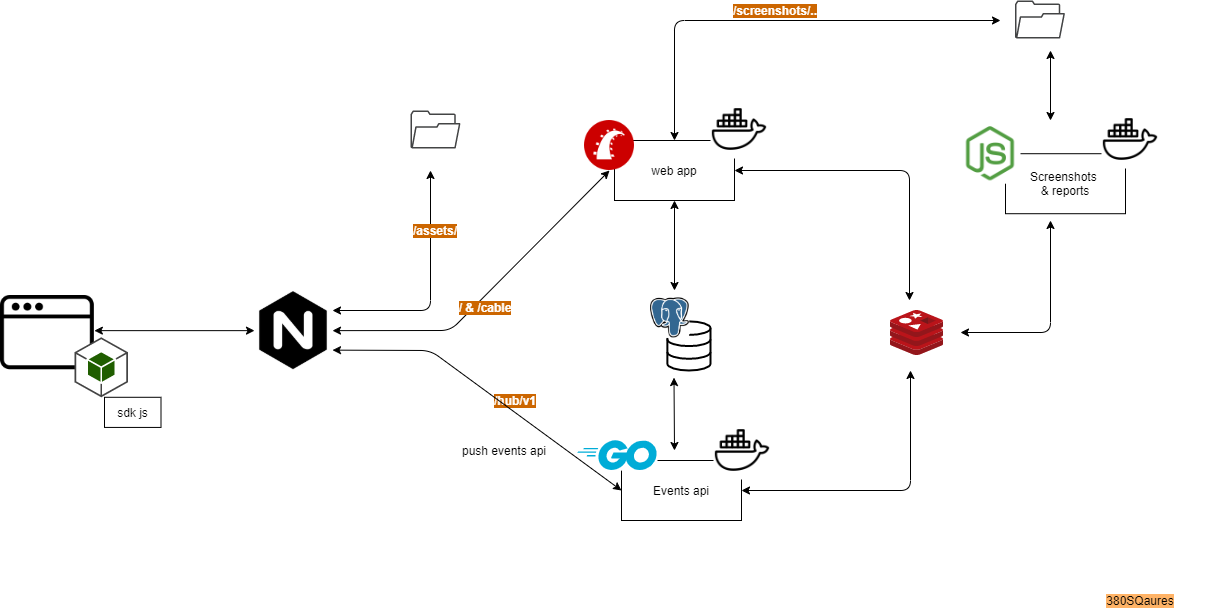
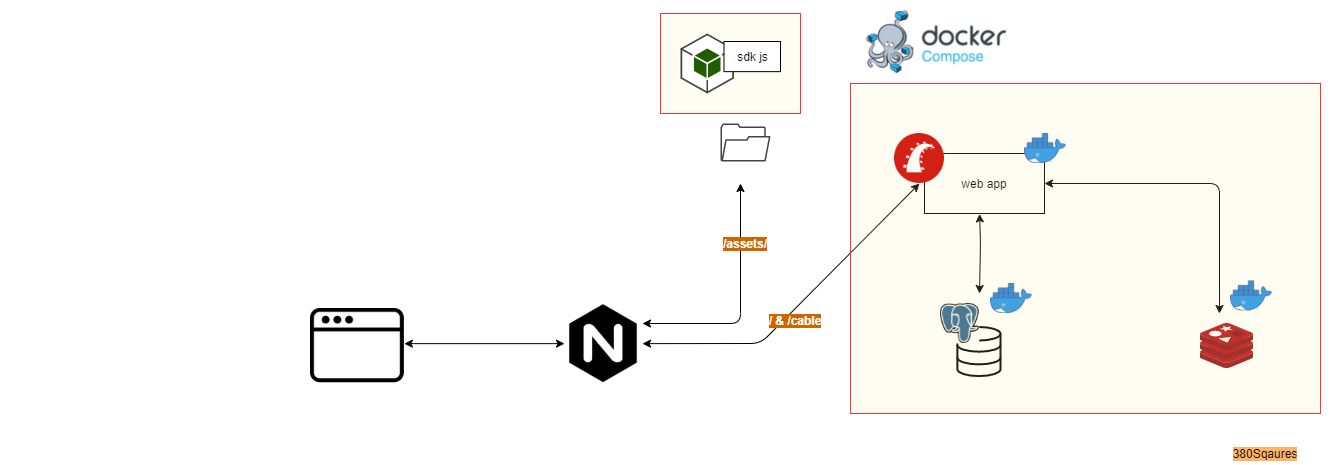
update architecture

diff --git a/docs/deployment.md b/docs/deployment.md
@@ -4,21 +4,18 @@
 
 **You should keep the data in folder using volumes, so we create `/var/unk-data` and inside we create `pg` folder for pg and `redis` folder for redis**
 
-### Assets folder
-
-##### Create the assets folder
-create `/var/www/unk_ana-assets` folder, we will use it later to serve assets
-
 ### Configure nginx
 
-See ngnix folder to copy configuration files.
+See See [nginx file](../nginx/), folder to copy configuration files.
+
 
 ### Container images & docker compose
 
-Note, that for building image we only need the minimum of env variables.
+Note that for building image we only need the minimum of env variables. Some values are build in env file itself , example `UNK_ANA_DATABASE_URI`
 
-##### Run docker compose
-### see full variable names in `.env` file  
+### Docker compose
+
+###### see full variable names in [nginx file](../.env) file  
 ```
 UNK_ANA_PG_USER=<db_user> 
 UNK_ANA_PG_PASSWORD=<db_password> \ 
@@ -36,17 +33,24 @@ UNK_ANA_SIDEKIQ_PASSWORD=<GOTO> \
 UNK_ANA_WickedPdf_EXEC_PATH="C:\Program Files\wkhtmltopdf\bin\wkhtmltopdf.exe" \ !!! not this is for windows, remove it for ubuntu 
 docker-compose --env-file ./.env up --build
 ```
+* add `up -d --build` to run with deamon
 
+
+### Assets folder
+
+##### Create the assets folder
+
+create `/var/www/unk_ana-assets` folder, we will use it later to serve assets
+See [nginx file](../nginx/production), all assets are served by nginx.
 #### Copy assets to nginx,
 
 Once the container is up and running, you should copy the latest generated assets from docker. In production/staging
 mode, rails does not serve static files (unless you enable it). It's always suitable to serve it using nginx or any
 other dedicated server.
 
-So if we will serve static file from /var/www/unk_ana-assets/assets, we will copy assets from `/var/www/unk-web-app` (see Dockerfile)
+So if we will serve static file from `/var/www/unk_ana-assets/assets`, we will copy assets docker assets to `/var/www/unk-web-app` (see [nginx file](../Dockerfile) and [entrypoint](../docker/entrypoint.sh))
 
 `rm -rf /var/www/unk_ana-assets/`
-
 
 `docker cp <id_container|container_name>:/var/www/unk-web-app/public/assets /var/www/unk_ana-assets/`
 
@@ -57,8 +61,14 @@ For this configuration you can use
 sudo mkdir -p /var/www/unk_ana-assets && \
 sudo docker cp unk-web-app:/var/www/unk-web-app/public/assets /var/www/unk_ana-assets/assets`
 
-* Docker on windows.
-### 
+### SDK JS 
+
+The sdk js is built with rollup, see the `build` script in the [scripts list](../package.json), this will build the `sdk.js` and put it inside `assets` along with all other assets files.
+It should be copied to assets host directory and served by nginx.
+
+
+###  Docker on windows.
+
 
 There are some issues related to database volume on windows (permission denied). I try to setup but i ended installing
 ubuntu with wsl2 to avoid the issue. You can use direct address of docker on window is `host.docker.internal` for redis

diff --git a/README.md b/README.md
@@ -1,21 +1,19 @@
 This is the web app module for [unknownanalytics](unknownanalytics.com/)
 Simple analytics to protect user privacy and get only essentials metrics.
 
-# Global architecture
+# App architecture
 
 ![Kiku](docs/assets/full-arch.png)
 
-# Web app module  (current repo)
-
-![Kiku](docs/assets/web-app-arch-module.png)
 
 ## Local dev requirement
 
 * Version 
 
     - ruby-2.7.2
-    - Rails 6.0.2
-    - pg
+    - Rails 6.1.3
+    - pg 10
+    - redis
 
 * Install libq-dev (native lib tool for pg). For alpine image we use `postgresql-dev` instead .
 
@@ -31,31 +29,12 @@ Create your database
 
 run `(bundle exec ) db migrate`
 
+
+### For deployment process, see [deployment](docs/deployment.md)
+
+### SDK JS 
+
+The sdk is build with rollup, inside [web-sdk-cli](./web-sdk-cli/src)
+
+
 * Services (job queues, cache servers, search engines, etc.)
-
-> TODO
-
-### set up env variables
-
-Below the list of env variables that should be set in order to run the app, all these variables are listed in `.env`
-file.
-
-`UNK_ANA_DATABASE_URI=postgres://<user>:<pass>@<host>/<db_name>` // Postgres db uri
-
-`UNK_ANA_APP_NAME=<App name>` // will be displayed in title and emails
-
-`UNK_ANA_DEFAULT_PAGE_TITLE=<your browser app title>` // will be displayed in title and emails
-
-`UNK_ANA_STRIPE_API_KEY=<stripe_key>`  // This is not mandatory, you can keep it empty for now as payment is not configured.
-
-`UNK_ANA_APP_HOST=<your_app_host>` // your host
-
-`UNK_ANA_REDIS_URI=redis://<host>:<port>` // Redis uri
-
-`UNK_ANA_REDIS_CHANNEL_PREFIX=<channel_prefix>` // Redis channel prefix. This is useful because when we use the same redis db for multiples purposes, we need to separate app channels from other channels.
-
-`UNK_ANA_SMTP_URI=smtp://<user>:<pass>@<host>` // SMTP uri
-
-`UNK_ANA_SMTP_AUTH_METHOD=<smtp_method>` // cram_md5 or plain ..
-
-`UNK_ANA_SCREENSHOT_SECRET_KEY=<your_secret>` // secret_12345_change_me
